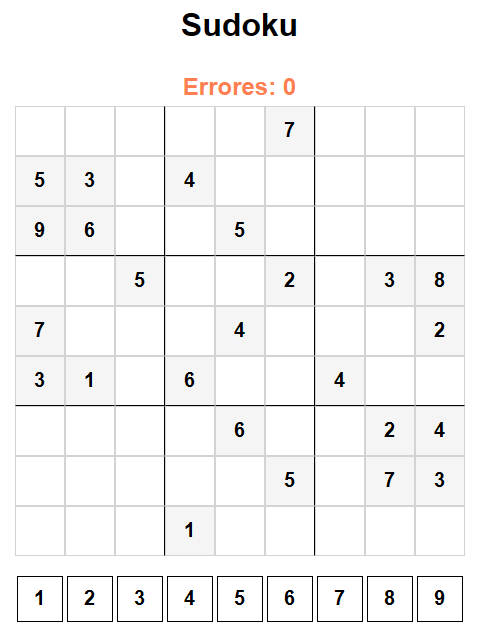
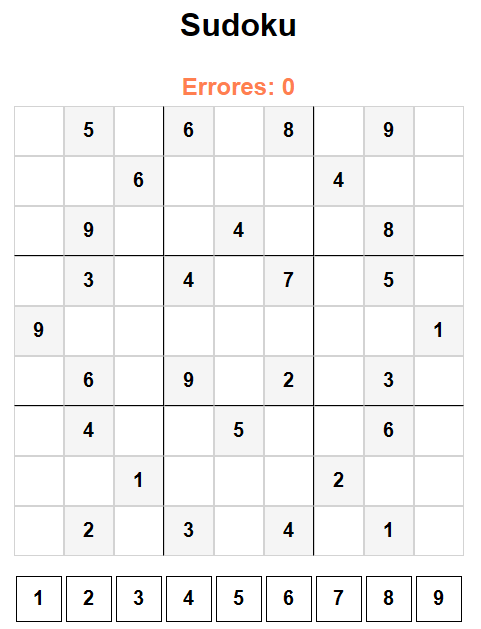
Feat: sudoku-javascript. 20250525
- 20250525

#20250525

Changed region(s): [[0.0293, 0.1218, 0.9665, 1.0], [0.3808, 0.0, 0.6444, 0.0609]]

diff --git a/index.html b/index.html
@@ -5,7 +5,7 @@
   <meta charset="UTF-8">
   <meta name="viewport" content="width=device-width, initial-scale=1.0">
   <title>Sudoku</title>
-  <link rel="shortcut icon" href="https://jdgonzal.github.io/Sudoku01/public/game.png" />
+  <link rel="shortcut icon" href="https://jdgonzal.github.io/Sudoku01/public/icon.png" />
 
   <script type="module" src="sudoku.js"></script>
   <meta name="description" content="Juega Sudoku siguiendo las reglas">

diff --git a/board.js b/board.js
@@ -47,6 +47,8 @@ const board = [
     '--18--3--', '5--2-7-4-', '--79----8', '---------'],
   ['-----7---', '53-4-----', '96--5----', '--5--2-38', '7---4---2',
     '31-6--4--', '----6--24', '-----5-73', '---1-----'],
+  ['-5-6-8-9-', '--6---4--', '-9--4--8-', '-3-4-7-5-', '9-------1',
+    '-6-9-2-3-', '-4--5--6-', '--1---2--', '-2-3-4-1-'] 
 ];
 
 export default function getBoard (WHICH) {

diff --git a/sudoku.js b/sudoku.js
@@ -10,7 +10,7 @@ let posExample = '';
 
 let errors = 0;
 
-const WHICH = 23; 
+const WHICH = 24; 
 
 let board = [];
 let solution = [];
